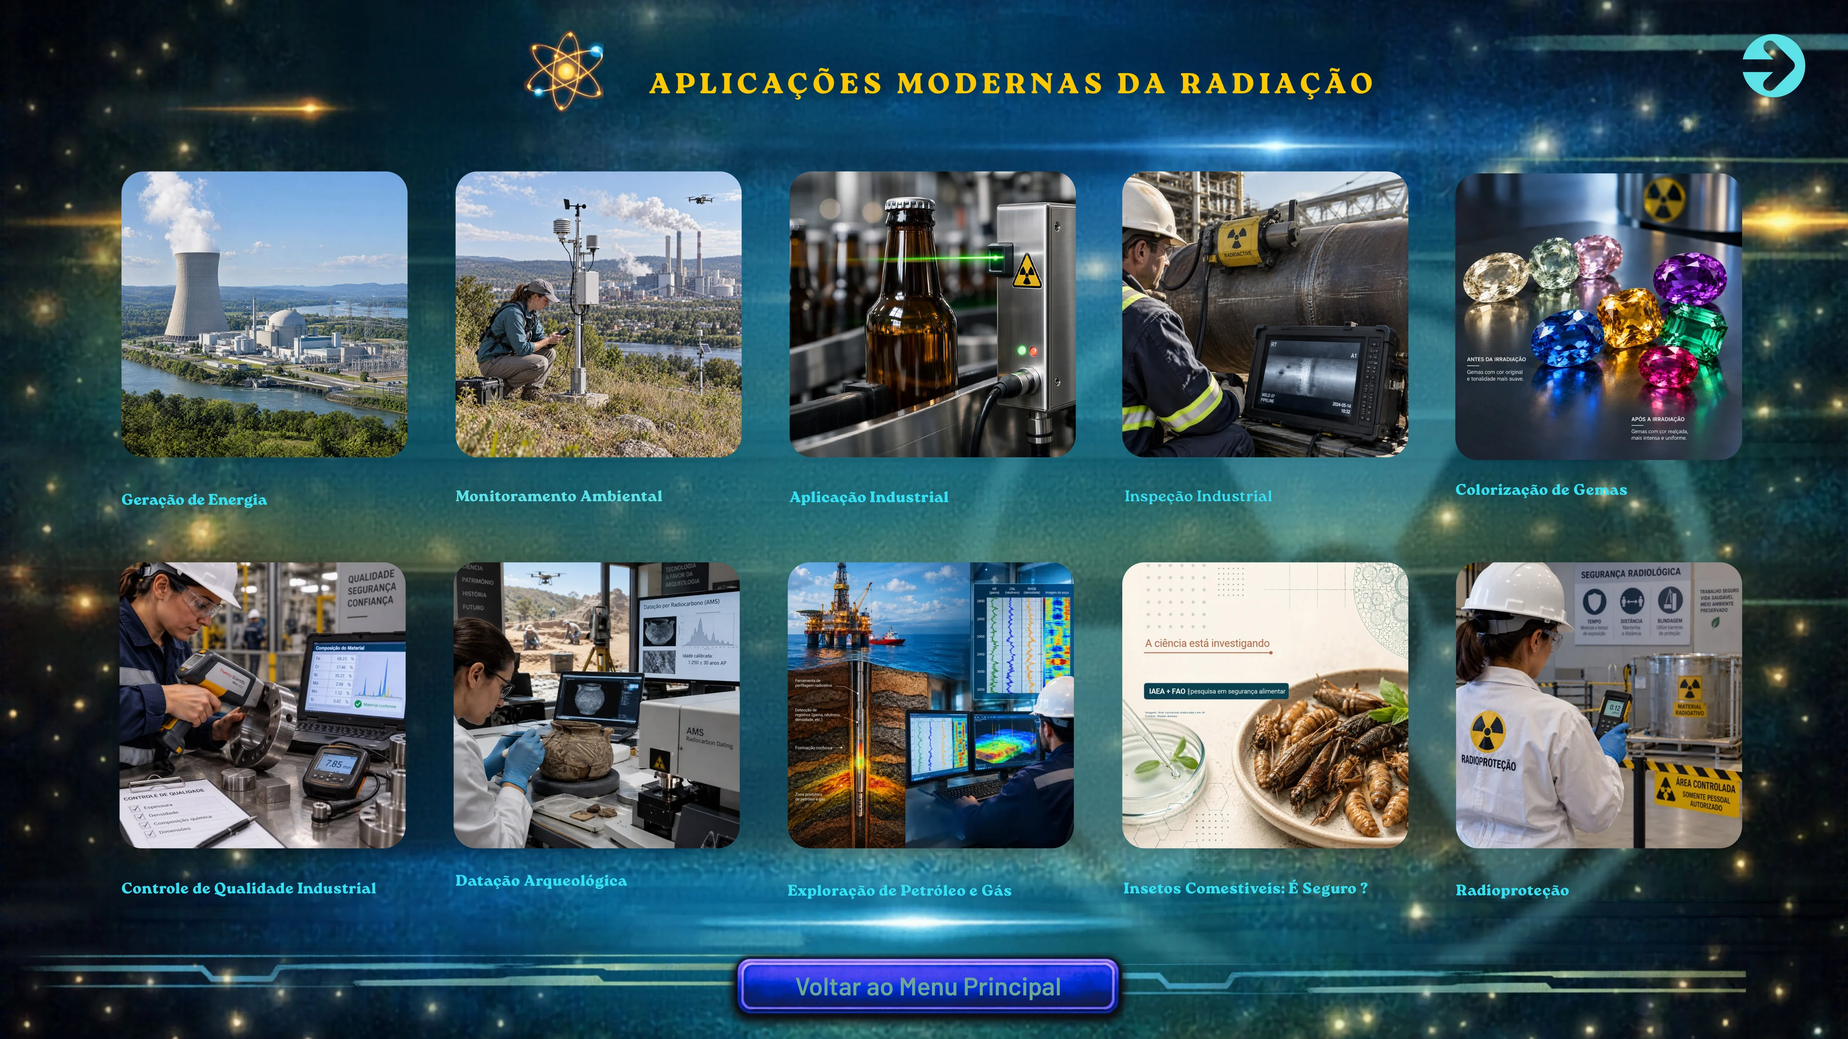
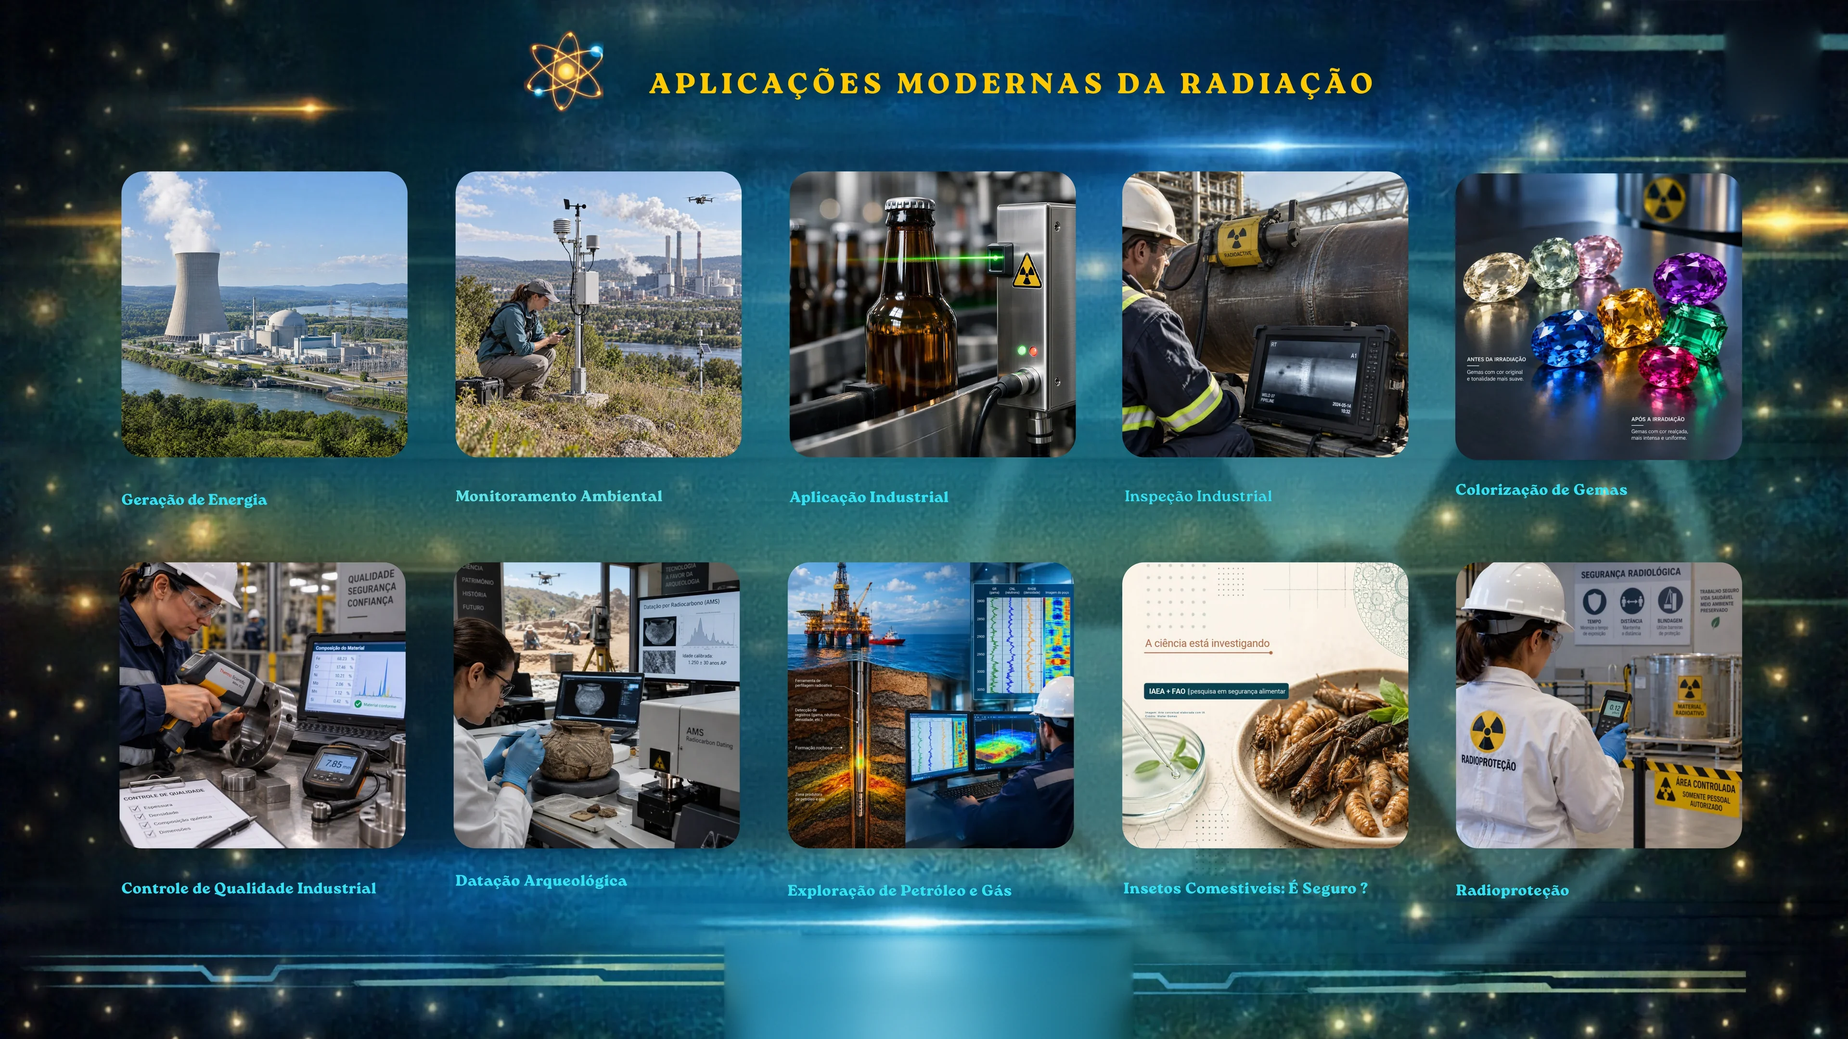
Barra de navegação única fora do conteúdo e páginas roláveis
- Remove dos slides os botões 'Voltar ao Menu', setas e links 'Saiba mais' desenhados
- Barra fixa na base: listas com paginação + Voltar ao Menu; fichas só com Voltar
- Curiosidades e Aplicações passam a rolar na horizontal como a História
- Enquadramento do palco calculado direto pelo tamanho da janela
- Espera só a primeira folha de cada lista para abrir mais rápido

Changed region(s): [[0.375, 0.8995, 0.625, 1.0], [0.9375, 0.031, 1.0, 0.1241]]

diff --git a/app.js b/app.js
@@ -1,5 +1,5 @@
 import { exhibits } from './acervo.js'
-import { themes, pages, slideDetails, arrow, menuButton } from './layout.js'
+import { themes, pages, slideDetails } from './layout.js'
 
 const W = 1920
 const H = 1080
@@ -33,10 +33,6 @@ function hot(rect, label, action, extra = '') {
   return `<button type="button" class="hot ${extra}" style="${box(rect)}" aria-label="${esc(label)}" data-go="${action}"></button>`
 }
 
-function backToMenu(rect = menuButton) {
-  return hot(rect, 'Voltar ao menu principal', 'menu', 'hot-button')
-}
-
 /* ---------- menu ---------- */
 
 function buildMenu() {
@@ -63,21 +59,20 @@ function buildMenu() {
 function buildPage(id) {
   const page = pages[id]
   const theme = themes[page.theme]
-  let html = `<img class="bg" src="${page.bg}" alt="">`
+  let html
+  let total
   if (page.strip) {
-    html += `<h1 class="sr">${theme.name}</h1>
-      <div class="strip"><div class="strip-track">${page.strip.map((ids, p) => `<div class="strip-page">${page.tiles.map((rect, i) => tileHtml(rect, byId[ids[i]], p === 0)).join('')}</div>`).join('')}</div></div>
-      <button type="button" class="nav-arrow prev" style="${box({ ...arrow, x: arrow.x - 110 })}" data-scroll="-1" aria-label="Página anterior">${arrowSvg}</button>
-      <button type="button" class="nav-arrow next" style="${box(arrow)}" data-scroll="1" aria-label="Próxima página">${arrowSvg}</button>
-      <div class="page-count" aria-hidden="true">1 / ${page.strip.length}</div>`
+    total = page.strip.length
+    html = `<img class="bg" src="${page.bg}" alt=""><h1 class="sr">${theme.name}</h1>
+      <div class="strip"><div class="strip-track">${page.strip.map((ids, p) => `<div class="strip-page">${page.tiles.map((rect, i) => tileHtml(rect, byId[ids[i]], p === 0)).join('')}</div>`).join('')}</div></div>`
   } else {
-    html += `<h1 class="sr">${theme.name}</h1>`
-    html += page.tiles.map((rect, i) => hot(rect, byId[page.items[i]].title, `item:${page.items[i]}`)).join('')
+    // Folhas de imagem lado a lado, rolando na horizontal.
+    total = page.sheets.length
+    html = `<h1 class="sr">${theme.name}</h1>
+      <div class="strip"><div class="strip-track">${page.sheets.map(sheet => `<div class="strip-page"><img class="bg" src="${sheet.bg}" alt="">${sheet.tiles.map((rect, i) => hot(rect, byId[sheet.items[i]].title, `item:${sheet.items[i]}`)).join('')}</div>`).join('')}</div></div>`
   }
-  if (page.next) html += hot(arrow, 'Próxima página', page.next, 'hot-round')
-  html += backToMenu(page.back)
   const el = screen(id, `page tone-${theme.tone}`, html)
-  if (page.strip) initStrip(el, page.strip.length)
+  initStrip(el, total)
 }
 
 function tileHtml(rect, item, eager = false) {
@@ -90,7 +85,6 @@ function tileHtml(rect, item, eager = false) {
 // Faixa rolável da História: deslizar com o dedo, rodinha do mouse ou setas.
 function initStrip(el, total) {
   const strip = el.querySelector('.strip')
-  const count = el.querySelector('.page-count')
   const index = () => Math.min(total - 1, Math.max(0, Math.round(strip.scrollLeft / W)))
   // "target" é a página pedida; cliques rápidos nas setas somam em vez de se perderem no meio da animação.
   let target = 0
@@ -98,8 +92,9 @@ function initStrip(el, total) {
     target = (i + total) % total
     strip.scrollTo({ left: target * W, behavior: 'smooth' })
   }
+  el.pager = { total, index, step: delta => goTo(target + delta) }
   strip.addEventListener('scrollend', () => { target = index() })
-  strip.addEventListener('scroll', () => { count.textContent = `${index() + 1} / ${total}` }, { passive: true })
+  strip.addEventListener('scroll', () => { if (screens[current] === el) syncDock() }, { passive: true })
   let wheelLock = 0
   strip.addEventListener('wheel', event => {
     event.preventDefault()
@@ -110,10 +105,6 @@ function initStrip(el, total) {
     wheelLock = now + 550
     goTo(target + Math.sign(delta))
   }, { passive: false })
-  el.addEventListener('click', event => {
-    const nav = event.target.closest('[data-scroll]')
-    if (nav) goTo(target + Number(nav.dataset.scroll))
-  })
   el.addEventListener('keydown', event => {
     if (event.key === 'ArrowRight') goTo(target + 1)
     if (event.key === 'ArrowLeft') goTo(target - 1)
@@ -121,8 +112,6 @@ function initStrip(el, total) {
 }
 
 /* ---------- fichas ---------- */
-
-const arrowSvg = `<svg viewBox="0 0 100 100" aria-hidden="true"><circle cx="50" cy="50" r="46" fill="currentColor"/><path d="M26 50h40M50 30l22 20-22 20" fill="none" stroke="#06140b" stroke-width="10" stroke-linecap="round" stroke-linejoin="round" transform="rotate(180 50 50)"/></svg>`
 
 function videoBlock(src, rect) {
   return `<div class="video-wrap" style="${box(rect)}">
@@ -149,9 +138,7 @@ function buildDetail(id) {
   let html
   if (slide) {
     html = `<img class="bg" src="${slide.bg}" alt=""><h1 class="sr">${esc(item.title)}</h1>
-      ${videoBlock(slide.video, slide.box)}
-      ${hot(arrow, 'Voltar para a lista', 'back', 'hot-round')}
-      ${backToMenu()}`
+      ${videoBlock(slide.video, slide.box)}`
   } else {
     const photos = item.images ?? [item.image]
     const size = item.description.length > 900 ? 'xs' : item.description.length > 700 ? 's' : item.description.length > 450 ? 'm' : 'l'
@@ -165,12 +152,44 @@ function buildDetail(id) {
         ${photos.length > 1 ? `<div class="thumbs">${photos.map((p, i) => `<button type="button" class="thumb ${i ? '' : 'on'}" data-photo="assets/${p}.webp" aria-label="Foto ${i + 1}"><img src="assets/${p}.webp" alt=""></button>`).join('')}</div>` : ''}
       </div>
       <div class="copy size-${size}">${item.summary ? `<p class="lead">${esc(item.summary)}</p>` : ''}${item.description.split('\n').filter(Boolean).map(p => `<p>${esc(p)}</p>`).join('')}</div>
-      <button type="button" class="back-arrow" data-go="back" aria-label="Voltar para a lista">${arrowSvg}</button>
-      <button type="button" class="menu-btn" data-go="menu">Voltar ao Menu Principal</button>`
+`
   }
   const el = screen(`item:${id}`, `detail tone-${theme.tone}`, html)
   el.dataset.item = id
   fitText(el.querySelector('.copy'))
+}
+
+/* ---------- barra de navegação (fica fora do conteúdo das telas) ---------- */
+
+const icon = {
+  back: '<svg viewBox="0 0 24 24" aria-hidden="true"><path d="M15 5l-7 7 7 7" fill="none" stroke="currentColor" stroke-width="3" stroke-linecap="round" stroke-linejoin="round"/></svg>',
+  home: '<svg viewBox="0 0 24 24" aria-hidden="true"><path d="M3 11l9-8 9 8M5.5 9.5V20h5v-6h3v6h5V9.5" fill="none" stroke="currentColor" stroke-width="2.4" stroke-linecap="round" stroke-linejoin="round"/></svg>',
+  next: '<svg viewBox="0 0 24 24" aria-hidden="true"><path d="M9 5l7 7-7 7" fill="none" stroke="currentColor" stroke-width="3" stroke-linecap="round" stroke-linejoin="round"/></svg>',
+}
+
+const dock = document.createElement('nav')
+dock.className = 'dock'
+dock.dataset.mode = 'hidden'
+dock.setAttribute('aria-label', 'Navegação')
+dock.innerHTML = `
+  <button type="button" class="dock-btn" data-show="item" data-go="back">${icon.back}<span>Voltar</span></button>
+  <div class="dock-pager" data-show="page">
+    <button type="button" class="dock-round" data-pager="-1" aria-label="Página anterior">${icon.back}</button>
+    <span class="dock-count" aria-live="polite">1 / 1</span>
+    <button type="button" class="dock-round" data-pager="1" aria-label="Próxima página">${icon.next}</button>
+  </div>
+  <button type="button" class="dock-btn" data-show="page" data-go="menu">${icon.home}<span>Voltar ao Menu</span></button>`
+stage.append(dock)
+
+function syncDock() {
+  const el = screens[current]
+  const mode = !el || current === 'menu' ? 'hidden' : el.dataset.item ? 'item' : 'page'
+  dock.dataset.mode = mode
+  dock.dataset.tone = [...(el?.classList ?? [])].find(c => c.startsWith('tone-'))?.slice(5) ?? 'gold'
+  if (mode === 'page' && el.pager) {
+    dock.querySelector('.dock-count').textContent = `${el.pager.index() + 1} / ${el.pager.total}`
+    dock.classList.toggle('single', el.pager.total < 2)
+  }
 }
 
 /* ---------- navegação ---------- */
@@ -187,22 +206,10 @@ function ensure(id) {
   else buildPage(id)
 }
 
-function preload(id) {
-  const src = pages[id]?.bg
-  if (src) new Image().src = src
-}
-
-// Transições do slide original: menu = fade (0,7 s); Curiosidades 2 = cobrir; Aplicações 2 = puxar.
-const TRANSITIONS = {
-  'cur1>cur2': 'cover', 'cur2>cur1': 'cover',
-  'apl1>apl2': 'pull', 'apl2>apl1': 'pull',
-}
 let finishTransition = null
 
 function pickTransition(from, to) {
-  if (to === 'menu') return 'fade-slow'
-  if (pages[from]?.custom && pages[to]?.custom) return pages[from].next === to ? 'cover' : 'cover-back'
-  return TRANSITIONS[`${from}>${to}`] ?? 'fade'
+  return to === 'menu' ? 'fade-slow' : 'fade'
 }
 
 // Só mostra uma tela quando todas as imagens dela já estão decodificadas; assim nada "pisca"
@@ -224,12 +231,13 @@ async function go(target) {
   await ready(screens[id])
   if (token !== navToken) return // outro toque chegou enquanto carregava
   finishTransition?.()
-  if (pages[id]) { originPage = id; if (pages[id].next) preload(pages[id].next) }
+  if (pages[id]) originPage = id
 
   const previous = screens[current]
   const next = screens[id]
   const kind = previous ? pickTransition(current, id) : 'none'
   current = id
+  syncDock()
 
   if (previous) {
     previous.querySelectorAll('video').forEach(video => {
@@ -253,6 +261,8 @@ async function go(target) {
     finishTransition = done
   }
 
+  // Folhas seguintes da faixa: decodifica agora, em segundo plano, para a rolagem não "piscar".
+  next.querySelectorAll('.strip-page:not(:first-child) img.bg').forEach(img => img.decode?.().catch(() => {}))
   next.querySelector('.menu-video')?.play().catch(() => {})
   const wrap = next.querySelector('.video-wrap')
   if (wrap) playVideo(wrap)
@@ -281,6 +291,8 @@ stage.addEventListener('click', event => {
     else { video.pause(); wrap.classList.remove('playing') }
     return
   }
+  const pager = event.target.closest('[data-pager]')
+  if (pager) { screens[current]?.pager?.step(Number(pager.dataset.pager)); return }
   const target = event.target.closest('[data-go]')
   if (target) go(target.dataset.go)
 })
@@ -306,27 +318,14 @@ stage.addEventListener('load', event => {
   }
 }, true)
 
-// Deslizar para o lado troca de página nas grades de Curiosidades e Aplicações.
-let swipe = null
-stage.addEventListener('pointerdown', event => { swipe = { x: event.clientX, y: event.clientY, t: Date.now() } })
-stage.addEventListener('pointerup', event => {
-  if (!swipe) return
-  const dx = event.clientX - swipe.x
-  const dy = event.clientY - swipe.y
-  const fast = Date.now() - swipe.t < 700
-  swipe = null
-  const page = pages[current]
-  if (page?.next && !page.strip && fast && Math.abs(dx) > 140 * parseFloat(stage.style.getPropertyValue('--scale') || 1) && Math.abs(dy) < Math.abs(dx) / 2) go(page.next)
-})
-
 /* ---------- palco, ociosidade e modo quiosque ---------- */
 
 // Escala o palco 1920x1080 para caber em qualquer janela ou TV (HD, 4K, vertical, etc.).
 function fit() {
-  const root = document.documentElement
-  const vw = root.clientWidth || innerWidth
-  const vh = root.clientHeight || innerHeight
-  stage.style.setProperty('--scale', Math.min(vw / W, vh / H))
+  const vw = window.innerWidth
+  const vh = window.innerHeight
+  const scale = Math.min(vw / W, vh / H)
+  stage.style.transform = `translate(${(vw - W * scale) / 2}px, ${(vh - H * scale) / 2}px) scale(${scale})`
 }
 addEventListener('resize', fit)
 addEventListener('orientationchange', fit)
@@ -364,6 +363,6 @@ go('menu')
 
 // Aquece o cache com as imagens grandes das telas seguintes, sem atrapalhar o menu.
 setTimeout(() => {
-  const warm = [...Object.values(pages).map(p => p.bg), ...Object.values(slideDetails).map(d => d.bg), ...Object.values(themes).map(t => t.bg)]
+  const warm = [...Object.values(pages).flatMap(p => p.sheets?.map(s => s.bg) ?? [p.bg]), ...Object.values(slideDetails).map(d => d.bg), ...Object.values(themes).map(t => t.bg)]
   new Set(warm).forEach(src => { new Image().src = src })
 }, 1500)

diff --git a/styles.css b/styles.css
@@ -4,7 +4,7 @@
   font-family: "Open Sans", system-ui, sans-serif;
 }
 * { box-sizing: border-box; -webkit-tap-highlight-color: transparent; }
-html, body { margin: 0; height: 100%; overflow: hidden; background: #000; overscroll-behavior: none; }
+html, body { margin: 0; position: fixed; inset: 0; width: 100%; height: 100%; overflow: hidden; background: #000; overscroll-behavior: none; }
 body { display: grid; place-items: center; touch-action: manipulation; user-select: none; -webkit-user-select: none; cursor: none; }
 @media (hover: hover) and (pointer: fine) { body { cursor: default; } }
 button { font: inherit; border: 0; padding: 0; background: none; color: inherit; cursor: pointer; }
@@ -12,7 +12,7 @@ noscript { color: #fff; }
 .sr { position: absolute; width: 1px; height: 1px; overflow: hidden; clip-rect: rect(0 0 0 0); margin: -1px; }
 
 /* Palco fixo de 1920x1080, escalado para caber na tela */
-#stage { position: absolute; left: 50%; top: 50%; width: 1920px; height: 1080px; transform: translate(-50%, -50%) scale(var(--scale, 1)); transform-origin: center; overflow: hidden; background: #000; }
+#stage { position: absolute; left: 0; top: 0; width: 1920px; height: 1080px; transform-origin: 0 0; overflow: hidden; background: #000; }
 .screen { position: absolute; inset: 0; visibility: hidden; pointer-events: none; overflow: hidden; }
 .screen.on { visibility: visible; pointer-events: auto; z-index: 2; }
 .screen.leaving { visibility: visible; z-index: 1; pointer-events: none; }
@@ -65,24 +65,14 @@ noscript { color: #fff; }
 .copy { position: absolute; left: 900px; right: 110px; top: 210px; bottom: 130px; display: flex; flex-direction: column; justify-content: center; gap: 30px; color: var(--ink); font: 600 40px/1.5 Georgia, serif; }
 .copy p { margin: 0; text-align: left; }
 .copy .lead { font-weight: 800; font-size: 46px; line-height: 1.25; }
-.back-arrow { position: absolute; right: 40px; top: 30px; width: 76px; height: 76px; transition: transform .15s; }
-.back-arrow svg { width: 100%; height: 100%; display: block; }
-.menu-btn { position: absolute; left: 765px; top: 985px; width: 395px; height: 75px; border-radius: 14px; color: #f6ffe9; font: 600 32px "Open Sans", sans-serif; border: 4px solid; transition: transform .15s, filter .15s; }
-.back-arrow:active, .menu-btn:active { transform: scale(.94); filter: brightness(1.25); }
 
 .tone-green .head, .tone-green .title { color: #f9e04b; }
 .tone-green .head span { color: #8fe36a; }
-.tone-green .back-arrow { color: #6fe05a; }
-.tone-green .menu-btn { background: linear-gradient(#3f8f1f, #1f5a10); border-color: #86d44f; }
-.tone-green .period { color: #f9e04b; }
+.tone-green .tone-green .tone-green .period { color: #f9e04b; }
 .tone-blue .head, .tone-blue .title { color: #f5c54d; }
-.tone-blue .back-arrow { color: #55e0f0; }
-.tone-blue .menu-btn { background: linear-gradient(#3e46e6, #1c2593); border-color: #6c78ff; }
-.tone-blue .period { color: #55e0f0; }
+.tone-blue .tone-blue .tone-blue .period { color: #55e0f0; }
 .tone-gold .head, .tone-gold .title, .tone-gold .period { color: var(--gold); }
-.tone-gold .back-arrow { color: #f1b73a; }
-.tone-gold .menu-btn { background: linear-gradient(#a8631b, #6a3a0c); border-color: #e3a24b; }
-.detail.tone-gold { background: radial-gradient(ellipse at 60% 40%, #5b3b1b, #17110a 70%); }
+.tone-gold .tone-gold .detail.tone-gold { background: radial-gradient(ellipse at 60% 40%, #5b3b1b, #17110a 70%); }
 
 /* Vídeo vertical sobre o slide */
 .video-wrap { position: absolute; border-radius: 6px; overflow: hidden; background: #000; box-shadow: 0 8px 28px rgba(0, 0, 0, .6); }
@@ -93,11 +83,6 @@ noscript { color: #fff; }
 .video-wrap.playing .video-toggle span { opacity: 0; }
 
 /* Navegação entre páginas da História */
-.nav-arrow { position: absolute; color: #f1b73a; border-radius: 50%; transition: transform .15s, filter .15s; }
-.nav-arrow svg { width: 100%; height: 100%; display: block; }
-.nav-arrow.next svg { transform: scaleX(-1); }
-.nav-arrow:active { transform: scale(.92); filter: brightness(1.3); }
-.page-count { position: absolute; left: 1560px; top: 44px; width: 130px; text-align: right; font: 700 34px Georgia, serif; color: var(--gold); letter-spacing: .06em; }
 
 /* Galeria de fotos nas fichas */
 .gallery { position: absolute; left: 110px; top: 210px; width: 700px; height: 740px; display: flex; flex-direction: column; gap: 22px; }
@@ -134,8 +119,24 @@ noscript { color: #fff; }
 .strip::-webkit-scrollbar { display: none; }
 .strip-track { display: flex; width: max-content; height: 100%; }
 .strip-page { position: relative; flex: none; width: 1920px; height: 1080px; scroll-snap-align: start; scroll-snap-stop: always; }
-.screen.page .nav-arrow, .screen.page .page-count, .screen.page .hot-button { z-index: 3; }
-
+.screen.page .tone-green .tone-blue 
 /* Texto longo das fichas: rola com o dedo, com uma sombra indicando que há mais */
 .copy { touch-action: pan-y; overscroll-behavior: contain; scrollbar-width: thin; scrollbar-color: rgba(245, 184, 61, .6) transparent; -webkit-overflow-scrolling: touch; }
 .copy.scrolls { -webkit-mask-image: linear-gradient(#000 88%, transparent); mask-image: linear-gradient(#000 88%, transparent); padding-bottom: 50px; }
+
+/* Barra de navegação única, fixa na base e fora do conteúdo */
+.dock { --dock: #f5b83d; --dock-bg: linear-gradient(#a8631b, #6a3a0c); position: absolute; left: 50%; bottom: 18px; z-index: 10; display: flex; align-items: center; gap: 14px; padding: 10px; border-radius: 60px; background: rgba(8, 10, 14, .8); -webkit-backdrop-filter: blur(10px); backdrop-filter: blur(10px); border: 2px solid var(--dock); box-shadow: 0 10px 30px rgba(0, 0, 0, .55); transform: translateX(-50%); transition: opacity .3s, transform .3s; }
+.dock[data-mode="hidden"] { opacity: 0; pointer-events: none; transform: translate(-50%, 24px); }
+.dock[data-tone="green"] { --dock: #86d44f; --dock-bg: linear-gradient(#3f8f1f, #1f5a10); }
+.dock[data-tone="blue"] { --dock: #6c78ff; --dock-bg: linear-gradient(#3e46e6, #1c2593); }
+.dock [data-show] { display: none; }
+.dock[data-mode="item"] [data-show="item"] { display: inline-flex; }
+.dock[data-mode="page"] [data-show="page"] { display: inline-flex; }
+.dock.single [data-show="page"] { display: none !important; }
+.dock-btn { min-height: 76px; padding: 0 36px 0 28px; border-radius: 40px; display: inline-flex; align-items: center; gap: 14px; background: var(--dock-bg); color: #fff; font: 700 30px "Open Sans", system-ui, sans-serif; border: 2px solid color-mix(in srgb, var(--dock) 70%, #fff); transition: transform .15s, filter .15s; }
+.dock-btn svg { width: 38px; height: 38px; flex: none; }
+.dock-pager { align-items: center; gap: 10px; }
+.dock-round { width: 76px; height: 76px; border-radius: 50%; display: grid; place-items: center; background: rgba(255, 255, 255, .1); color: var(--dock); border: 2px solid var(--dock); transition: transform .15s, background .15s; }
+.dock-round svg { width: 40px; height: 40px; }
+.dock-count { min-width: 120px; text-align: center; font: 700 34px Georgia, serif; color: var(--dock); letter-spacing: .06em; }
+.dock-btn:active, .dock-round:active { transform: scale(.94); filter: brightness(1.25); }

diff --git a/layout.js b/layout.js
@@ -15,29 +15,24 @@ export const themes = {
   aplicacoes: { name: 'Aplicações Modernas da Radiação', label: 'APLICAÇÕES MODERNAS DA RADIAÇÃO', bg: 'deck/bg-azul.webp', icon: 'deck/ico-atomo.webp', tone: 'blue' },
 }
 
-// Cada página de grade é uma imagem de fundo com as miniaturas já desenhadas;
-// "tiles" são as áreas de toque, na mesma ordem das miniaturas.
+// Cada tema tem folhas de grade: uma imagem de fundo com as miniaturas já desenhadas, mais as áreas de
+// toque ("tiles") na mesma ordem das miniaturas. As folhas de um tema ficam lado a lado numa faixa rolável.
+const sheet = (bg, items) => ({ bg, tiles: grid(colsA, colsA, 175, 580), items })
+
 export const pages = {
-  // A História tem uma página para cada 10 eventos da linha do tempo (montadas abaixo).
   cur1: {
-    theme: 'curiosidades', bg: 'deck/curiosidades1.webp', next: 'cur2',
-    tiles: grid(colsA, colsA, 175, 580),
-    items: ['trem', 'raio-x-beleza', 'fluoroscopio', 'pintoras', 'carro', 'brinquedos', 'joias', 'radithor', 'dentifricio', 'cosmetico'],
-  },
-  cur2: {
-    theme: 'curiosidades', bg: 'deck/curiosidades2.webp', next: 'cur1',
-    tiles: grid(colsA, colsA, 175, 580),
-    items: ['parker', 'uralina', 'cadernos', 'simbolo', 'relogios', 'saque', 'oklo', 'atomik', 'experimentos', 'pararaios'],
+    theme: 'curiosidades',
+    sheets: [
+      sheet('deck/curiosidades1.webp', ['trem', 'raio-x-beleza', 'fluoroscopio', 'pintoras', 'carro', 'brinquedos', 'joias', 'radithor', 'dentifricio', 'cosmetico']),
+      sheet('deck/curiosidades2.webp', ['parker', 'uralina', 'cadernos', 'simbolo', 'relogios', 'saque', 'oklo', 'atomik', 'experimentos', 'pararaios']),
+    ],
   },
   apl1: {
-    theme: 'aplicacoes', bg: 'deck/aplicacoes1.webp', next: 'apl2',
-    tiles: grid(colsA, colsA, 175, 580),
-    items: ['melhoramento', 'diagnostico', 'radioterapia', 'nuclear', 'esterilizacao', 'alimentos', 'pragas', 'aeroporto', 'cargas', 'fumaca'],
-  },
-  apl2: {
-    theme: 'aplicacoes', bg: 'deck/aplicacoes2.webp', next: 'apl1',
-    tiles: grid(colsA, colsA, 175, 580),
-    items: ['energia', 'ambiente', 'industria', 'inspecao', 'gemas', 'qualidade', 'arqueologia', 'petroleo', 'insetos', 'protecao'],
+    theme: 'aplicacoes',
+    sheets: [
+      sheet('deck/aplicacoes1.webp', ['melhoramento', 'diagnostico', 'radioterapia', 'nuclear', 'esterilizacao', 'alimentos', 'pragas', 'aeroporto', 'cargas', 'fumaca']),
+      sheet('deck/aplicacoes2.webp', ['energia', 'ambiente', 'industria', 'inspecao', 'gemas', 'qualidade', 'arqueologia', 'petroleo', 'insetos', 'protecao']),
+    ],
   },
 }
 
